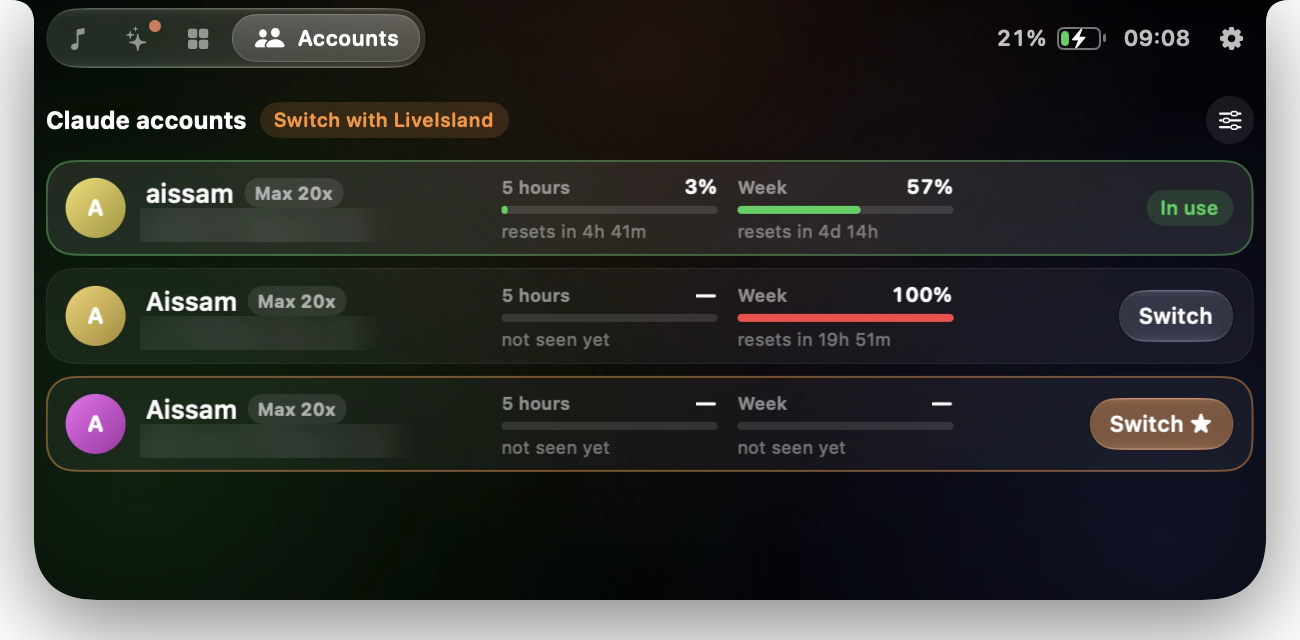
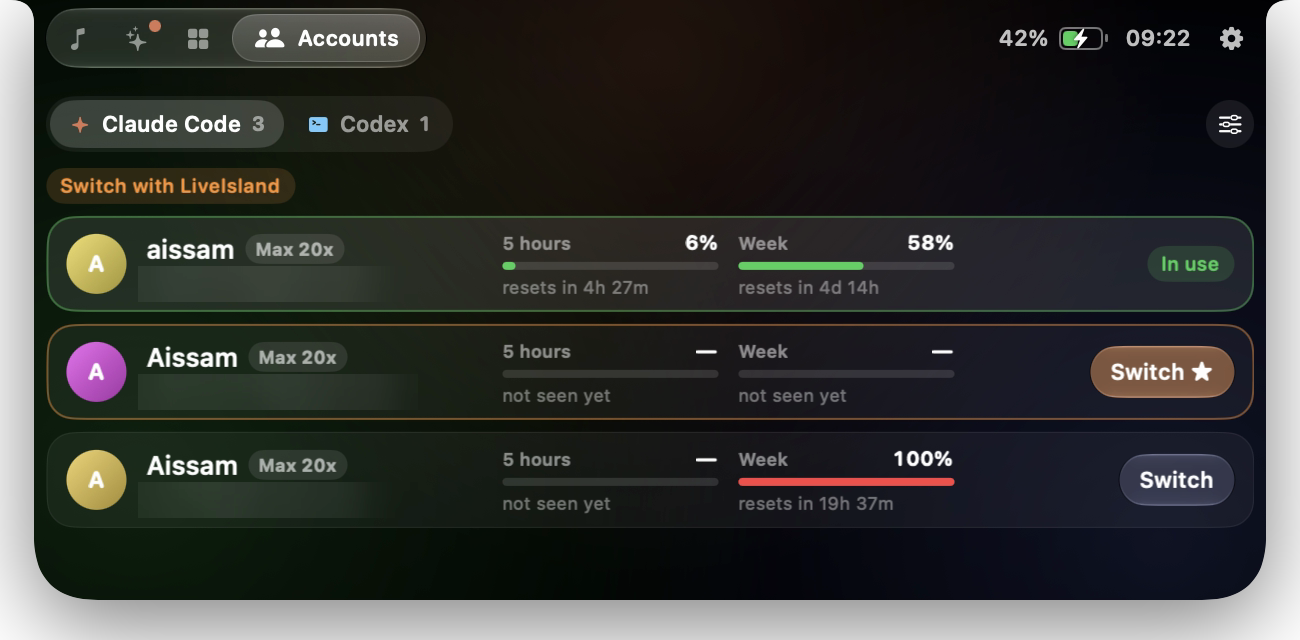
docs: refresh README for Codex accounts
New Accounts screenshots for Claude Code and Codex (emails blurred),
replacing the switching GIF, which showed the old duplicate limits.
Tests badge at 65, Codex in the accounts text, install notes, tests
and links; AGENTS.md gains the blur command.

Changed region(s): [[0.0308, 0.1562, 0.9846, 0.8125], [0.7692, 0.0312, 0.9231, 0.0938], [0.9231, 0.1562, 0.9538, 0.2188]]

diff --git a/README.md b/README.md
@@ -9,7 +9,7 @@
 ![macOS 14+](https://img.shields.io/badge/macOS-14%2B-black?logo=apple)
 ![Swift](https://img.shields.io/badge/Swift-6-F05138?logo=swift&logoColor=white)
 ![License: MIT](https://img.shields.io/badge/License-MIT-blue)
-![Tests](https://img.shields.io/badge/tests-59%20passing-success)
+![Tests](https://img.shields.io/badge/tests-65%20passing-success)
 
 <br>
 
@@ -93,26 +93,28 @@ Prefer to do it yourself? The lines are in [`scripts/claude-statusline-snippet.s
 
 ## Claude and Codex accounts
 
-<div align="center">
-<a href="demo/accounts.mp4"><img src="demo/accounts.gif" width="720" alt="The Accounts tab: three Claude accounts with their 5-hour and weekly limits, switching from one to another"></a>
-</div>
-
 <table>
   <tr>
-    <td align="center" width="62%">
-      <img src="demo/island-accounts.png" alt="Accounts tab: each account with its plan, 5-hour and weekly bars, reset times, and Switch buttons; the one with the most room is starred"><br>
-      <sub><b>Accounts</b><br>Every account's limits; ★ marks the one with the most room</sub>
+    <td align="center" width="50%">
+      <img src="demo/island-accounts.png" alt="Accounts tab on Claude Code: three accounts with their plan, 5-hour and weekly bars, reset times, and Switch buttons; the one with the most room is starred"><br>
+      <sub><b>Claude Code</b><br>Every account's limits; ★ marks the one with the most room</sub>
     </td>
-    <td align="center" width="38%">
-      <img src="demo/menu-bar-accounts.jpg" alt="Menu bar panel with the account in use, its limits, and a Switch menu listing the other accounts"><br>
+    <td align="center" width="50%">
+      <img src="demo/island-accounts-codex.png" alt="Accounts tab on Codex: the ChatGPT account in use, its Pro Lite plan and its weekly limit"><br>
+      <sub><b>Codex</b><br>ChatGPT logins, with their plan and limits</sub>
+    </td>
+  </tr>
+  <tr>
+    <td align="center" colspan="2">
+      <img src="demo/menu-bar-accounts.jpg" width="300" alt="Menu bar panel with the account in use, its limits, and a Switch menu listing the other accounts"><br>
       <sub><b>Menu bar</b><br>Switch without opening the island</sub>
     </td>
   </tr>
 </table>
 
-Use more than one Claude account? The **Accounts** tab lists every account Claude Code has used on this Mac, with its plan and its 5-hour and weekly limits. When the account in use runs out, the notch says so and points to the one with the most room. LiveIsland never switches on its own: you tap **Switch**.
+Use more than one account? The **Accounts** tab lists every account Claude Code and Codex have used on this Mac, with its plan and its 5-hour and weekly limits; a Claude Code | Codex switch at the top picks the list. When the account in use runs out, the notch says so and points to the one with the most room. LiveIsland never switches on its own: you tap **Switch**.
 
-Choose how switching works in **Settings › AI Agents**:
+Choose how Claude accounts switch in **Settings › AI Agents**:
 
 | | |
 |---|---|
@@ -124,7 +126,7 @@ To add an account, run `/login` in Claude Code and sign in to it (a private brow
 
 **Codex accounts** work the same way: the Accounts page has a Claude Code | Codex switch, and **Settings › AI Agents** has *Switch Codex accounts with LiveIsland* (off by default). LiveIsland then keeps a copy of each Codex login in its own folder, readable only by you, the same way Codex keeps its own in `~/.codex/auth.json`, and puts it in place when you tap Switch. Codex refuses to save a refreshed login over another account's, so a running session can't undo a switch. Add accounts with `codex login`; avoid `codex logout`, which cancels the login.
 
-LiveIsland learns an account's limits from the status line while you use it, and from the limit Claude reports when it refuses a request. Each report names the session it came from, and a session keeps the login it started with, so numbers land on an account only when that's certain: the session started after the latest switch, or the numbers match that account's own reset times. An account you aren't using keeps its last numbers, and a window that has reset counts from zero. (Added the status line lines with an earlier version? Settings › AI Agents offers to update them.)
+LiveIsland learns a Claude account's limits from the status line while you use it, and from the limit Claude reports when it refuses a request; a Codex account's come from the limits Codex writes in each session. Each report names the session it came from, and a session keeps the login it started with, so numbers land on an account only when that's certain: the session started after the latest switch, or the numbers match that account's own reset times. An account you aren't using keeps its last numbers, and a window that has reset counts from zero. (Added the status line lines with an earlier version? Settings › AI Agents offers to update them.)
 
 ## How it works
 
@@ -135,7 +137,7 @@ LiveIsland learns an account's limits from the status line while you use it, and
 | Claude Code and Codex | Their session files (`~/.claude/projects`, `~/.codex/sessions`), watched with FSEvents. Transcripts can be gigabytes, so only new bytes are read |
 | Where a session runs | The process table: each agent's folder and terminal, and the app above it |
 | Claude accounts | Who's logged in from `~/.claude.json`; logins (only when you choose LiveIsland switching) through the system `security` tool, the way Claude Code itself stores them |
-| Codex accounts | Who's logged in, and the plan, from `~/.codex/auth.json`; limits from the `rate_limits` Codex writes in each session |
+| Codex accounts | Who's logged in, and the plan, from `~/.codex/auth.json`; limits from the `rate_limits` Codex writes in each session; logins (only when you turn on Codex switching) as private copies of that file in `~/Library/Application Support/LiveIsland` |
 | Microphone, camera, calls | Core Audio's process list and CoreMediaIO. Only *whether* they're in use, never what they hear or see |
 | Battery, AirPods | IOKit power notifications; IOBluetooth and `system_profiler` for AirPods levels |
 | Calendar | EventKit, read only |
@@ -166,7 +168,7 @@ You need the Xcode Command Line Tools and CMake (`brew install cmake`), which bu
 - **Calendar**, for your next events
 - **Bluetooth**, for AirPods battery
 - **Automation** for Spotify and Music (now playing and controls), and for Terminal or iTerm2 the first time you jump to a session there
-- Nothing for Claude accounts: switching is off until you turn it on, and the Keychain items it uses are written by the system `security` tool
+- Nothing for Claude or Codex accounts: switching is off until you turn it on, the Keychain items it uses are written by the system `security` tool, and Codex logins are plain files in LiveIsland's own folder
 
 Everything works without any of them; the matching feature just stays empty.
 
@@ -177,14 +179,14 @@ Everything works without any of them; the matching feature just stays empty.
 LIVEISLAND_REAL_DATA=1 ./scripts/test.sh -c release --filter RealData   # read your own transcripts, timed
 ```
 
-The tests cover the transcript and rollout parsers, the incremental usage ledger (appends, truncation, replaced files, duplicate messages), 5-hour windows, limit notices that go stale, Claude Code's status line limits, now-playing stream updates, activity priorities, timers, session resume commands and editor window matching. For accounts: editing `~/.claude.json` without touching anything but `oauthAccount`, replacing the Claude login while keeping MCP logins, filing each status line report under the right account after a switch, limits from refused requests, the account with the most room, and reading claude-swap's output.
+The tests cover the transcript and rollout parsers, the incremental usage ledger (appends, truncation, replaced files, duplicate messages), 5-hour windows, limit notices that go stale, Claude Code's status line limits, now-playing stream updates, activity priorities, timers, session resume commands and editor window matching. For accounts: editing `~/.claude.json` without touching anything but `oauthAccount`, replacing the Claude login while keeping MCP logins, filing each status line report under the right account after a switch, limits from refused requests, the account with the most room, and reading claude-swap's output. For Codex: who a login belongs to (from its ID token), ChatGPT plan names, Codex limits in the account book, and listing Codex accounts apart from Claude ones.
 
 ## Automation
 
 | Link | Action |
 |---|---|
 | `liveisland://open` · `close` | Open or close the island |
-| `liveisland://open/accounts` | Open it on a page: `media`, `agents`, `activity` or `accounts` |
+| `liveisland://open/accounts` | Open it on a page: `media`, `agents`, `activity` or `accounts` (`accounts/codex` for the Codex list) |
 | `liveisland://timer/5` | Start a 5-minute timer |
 | `liveisland://settings` · `settings/agents` | Open Settings, or one of its pages: `general`, `island`, `media`, `agents`, `about` |
 

diff --git a/AGENTS.md b/AGENTS.md
@@ -71,8 +71,11 @@ ffmpeg -ss 58.5 -i recording.mov -frames:v 1 -vf "crop=1260:620:1418:0" -q:v 3 d
 Screenshots of the running app don't need a recording. Open each page with a link and capture only LiveIsland's window, which keeps its transparency (find the window number with `CGWindowListCopyWindowInfo`, owner "LiveIsland"). Capture within a second of opening: the island closes when the pointer passes over it and leaves. Then crop to the island and blur emails (the Accounts tab, and the account name on Agents):
 
 ```bash
-open "liveisland://open/accounts"; sleep 0.8; screencapture -x -o -l<window> accounts.png
-ffmpeg -i accounts.png -vf "crop=1300:640:110:0" demo/island-accounts.png
+open "liveisland://open/accounts"; sleep 0.8; screencapture -x -o -l<window> accounts.png   # accounts/codex for the Codex list
+ffmpeg -i accounts.png -vf "crop=1300:640:110:0" cropped.png
+B="boxblur=luma_radius=14:luma_power=4:chroma_radius=14:chroma_power=4"   # radius < half the band's height
+ffmpeg -i cropped.png -filter_complex "[0:v]format=gbrap,split[base][a];[a]crop=280:36:138:266,${B}[e];\
+[base][e]overlay=138:266,format=rgba" demo/island-accounts.png   # one band per email row (108 px apart); ${B}, not $B[..] in zsh
 ```
 
 Blur email addresses before anything leaves the Mac (the Accounts tab and Settings show them). Blur each email line while the tab is open, and the whole name column while rows re-sort after a switch, so no address slides past mid-animation; find those moments with `select='gt(scene,0.05)'` on the column. Then check the column frame by frame:
